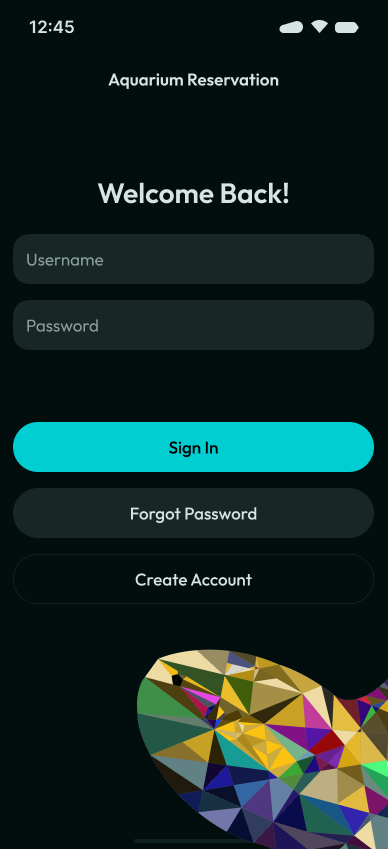
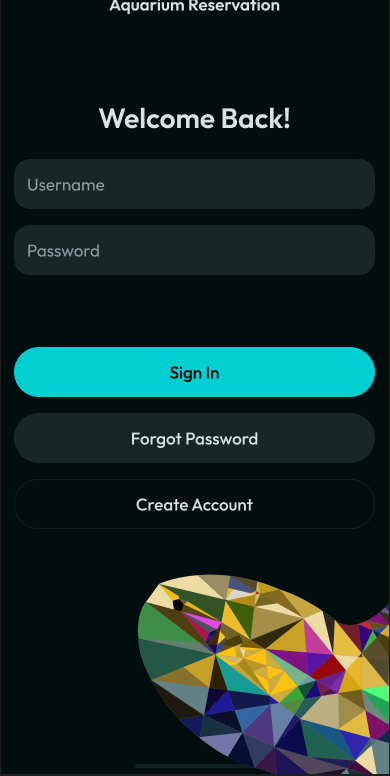
수우정

diff --git a/index.html b/index.html
@@ -50,7 +50,7 @@
                 <article class="card">
                     <div class="card-content">
                         <h3>React</h3>
-                        <p>React를 이용해 재사용 가능한 컴포넌트 구조를 설계하고 상태를 관리 가능합니다.</p>
+                        <p>React를 이용해 재사용 가능한 컴포넌트 구조를 설계하고 상태를 관리 가능합니다.(예정)</p>
                         <div class="btn-image-wrapper">
                             <button class="hover-btn">→자세히 보기</button>
                             <div class="image-popup">
